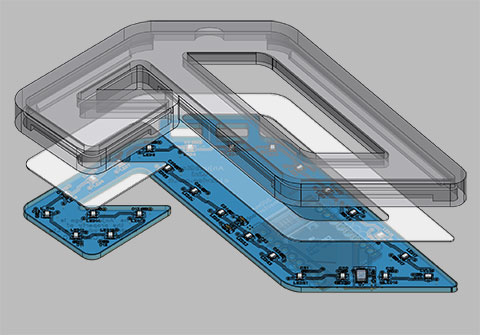
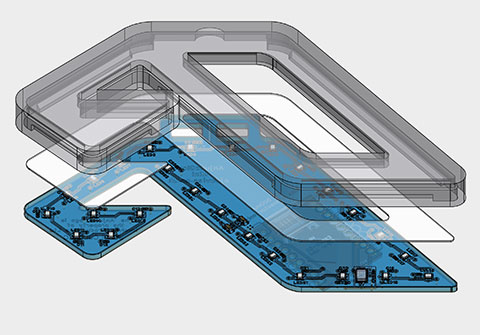
Image update

diff --git a/src/projects/anjunaglow_mini/index.html b/src/projects/anjunaglow_mini/index.html
@@ -179,7 +179,7 @@
                 <span>In action!</span>
             </a>
 
-            <a href="img/30.jpg" data-toggle="lightbox" data-gallery="anjunaglow-mini" class="gallery-item">
+            <a href="img/30.png" data-toggle="lightbox" data-gallery="anjunaglow-mini" class="gallery-item">
                 <img src="img/30s.jpg" alt="In action!">
                 <span>New diffuser design - additional white PETG layer with matching clips in clear TPU case</span>
             </a>